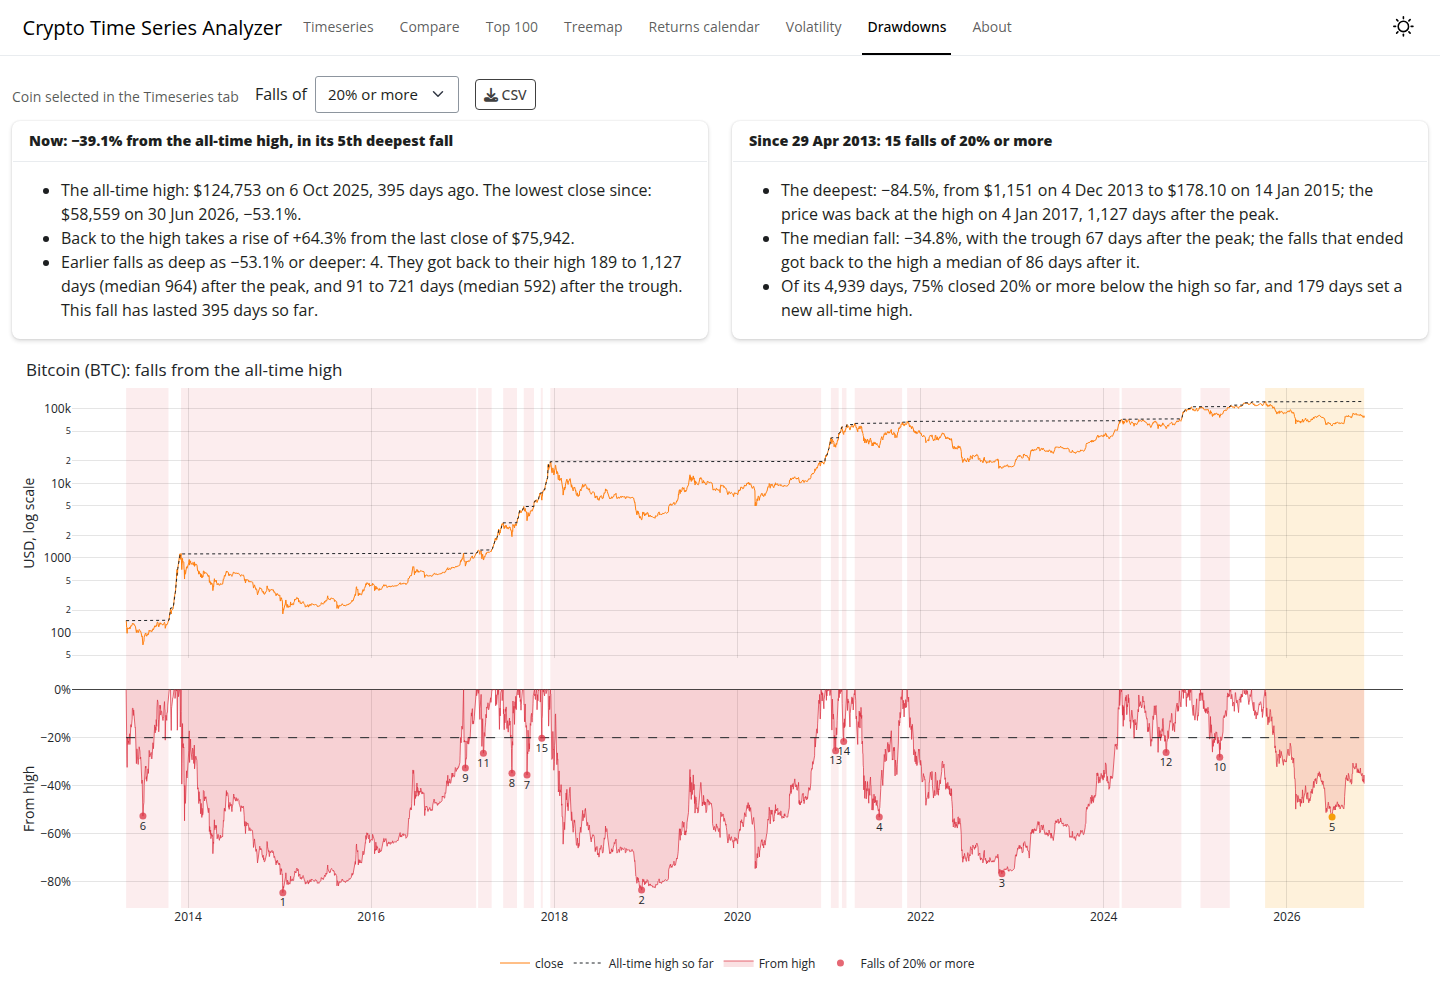
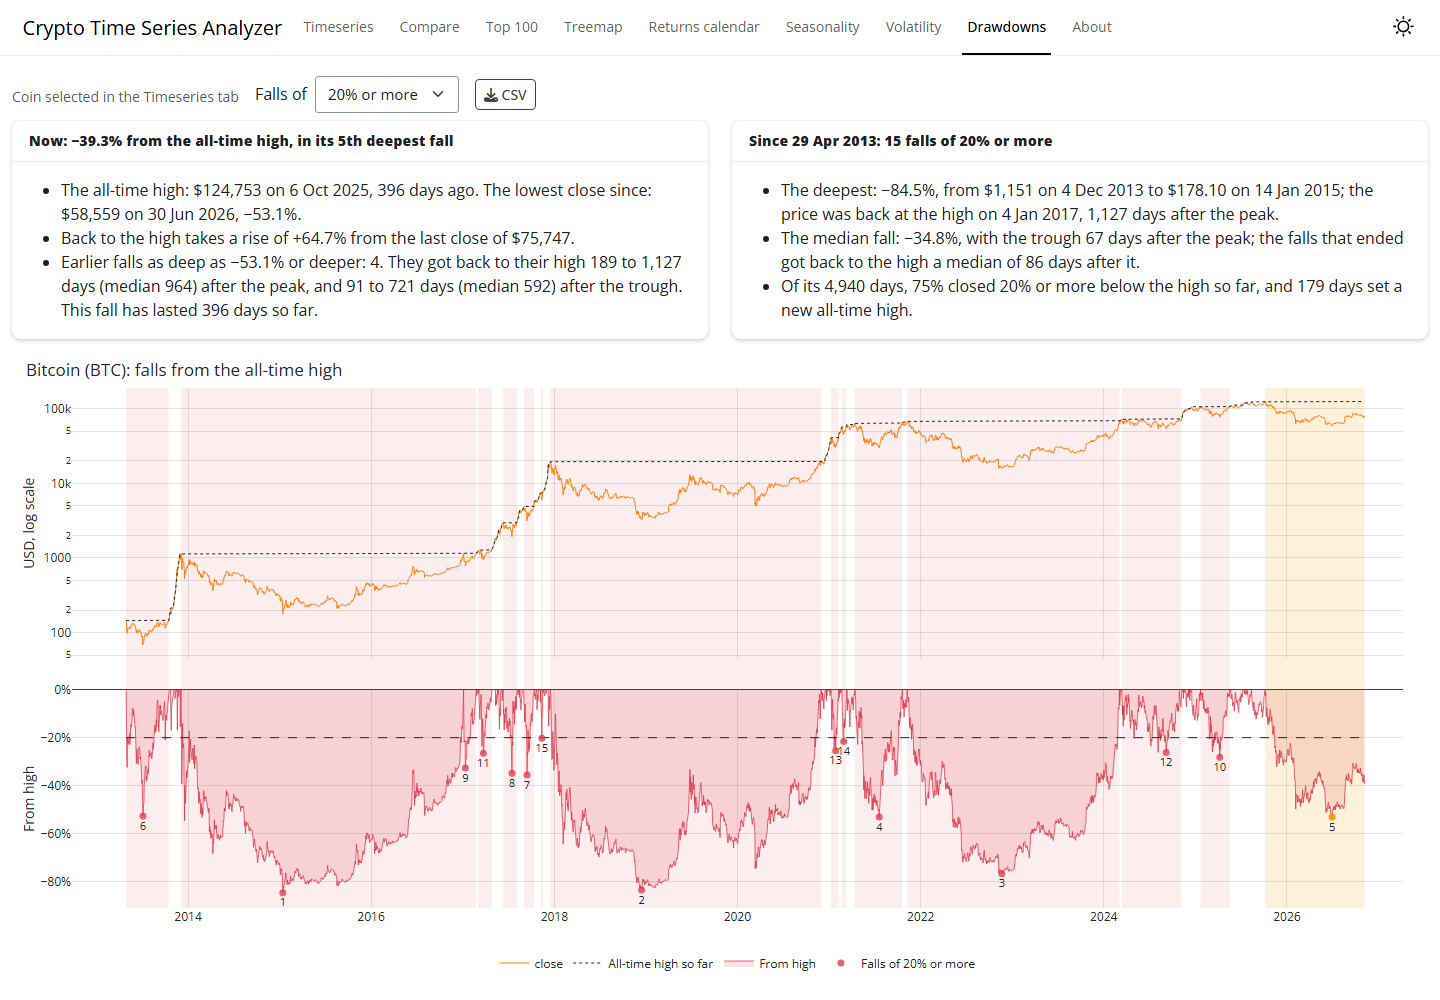
Refresh README screenshots
Update the cryptocurrency dashboard screenshots and document the new zoomed-in chart and seasonality views.

diff --git a/README.md b/README.md
@@ -171,7 +171,10 @@ Coins are picked by their label, such as `"Bitcoin (BTC)"`, and `get_coins()$nam
 ## Screenshots
 
 ### Cryptocurrency Price Chart
-![Candlestick and volume chart of Bitcoin since 2013](https://github.com/sedzinfo/golemcrypto/raw/main/screenshots/crypto1.png)
+![Candlestick, volume and drawdown chart of Bitcoin since 2013, on a log scale](https://github.com/sedzinfo/golemcrypto/raw/main/screenshots/crypto1.png)
+
+### Zoomed In
+![The last 3 months of Bitcoin, with the vertical axes fitted to the days in view](https://github.com/sedzinfo/golemcrypto/raw/main/screenshots/crypto9.png)
 
 ### Top 100 Market Overview
 ![Table of the top 100 coins with color-coded price changes](https://github.com/sedzinfo/golemcrypto/raw/main/screenshots/crypto2.png)
@@ -185,8 +188,11 @@ Coins are picked by their label, such as `"Bitcoin (BTC)"`, and `get_coins()$nam
 ### Returns Calendar (dark mode)
 ![Monthly returns of Bitcoin by year](https://github.com/sedzinfo/golemcrypto/raw/main/screenshots/crypto5.png)
 
+### Seasonality (dark mode)
+![Bitcoin's monthly returns by month since 2013, with the best and the worst month and a Kruskal-Wallis test of whether the differences could be chance](https://github.com/sedzinfo/golemcrypto/raw/main/screenshots/crypto8.png)
+
 ### Volatility
-![Whether the volatility of Bitcoin's last 30 days and the move of its last 2 days are normal, and the forecast of its next 7 days with the value at risk, with its 30-day volatility since 2013, its last 90 days in GARCH standard deviations and the forecast range of the price](https://github.com/sedzinfo/golemcrypto/raw/main/screenshots/crypto6.png)
+![Whether the volatility of Bitcoin's last 30 days and the move of its last 2 days are normal, and the forecast of its next 7 days with the value at risk, with pickers for the length of both windows, its 30-day volatility since 2013 and its last 90 days in GARCH standard deviations](https://github.com/sedzinfo/golemcrypto/raw/main/screenshots/crypto6.png)
 
 ### Drawdowns
 ![How far Bitcoin is below its all-time high and its 15 falls of 20% or more since 2013, on a log-scale price chart and a chart of the distance from the high](https://github.com/sedzinfo/golemcrypto/raw/main/screenshots/crypto7.png)
